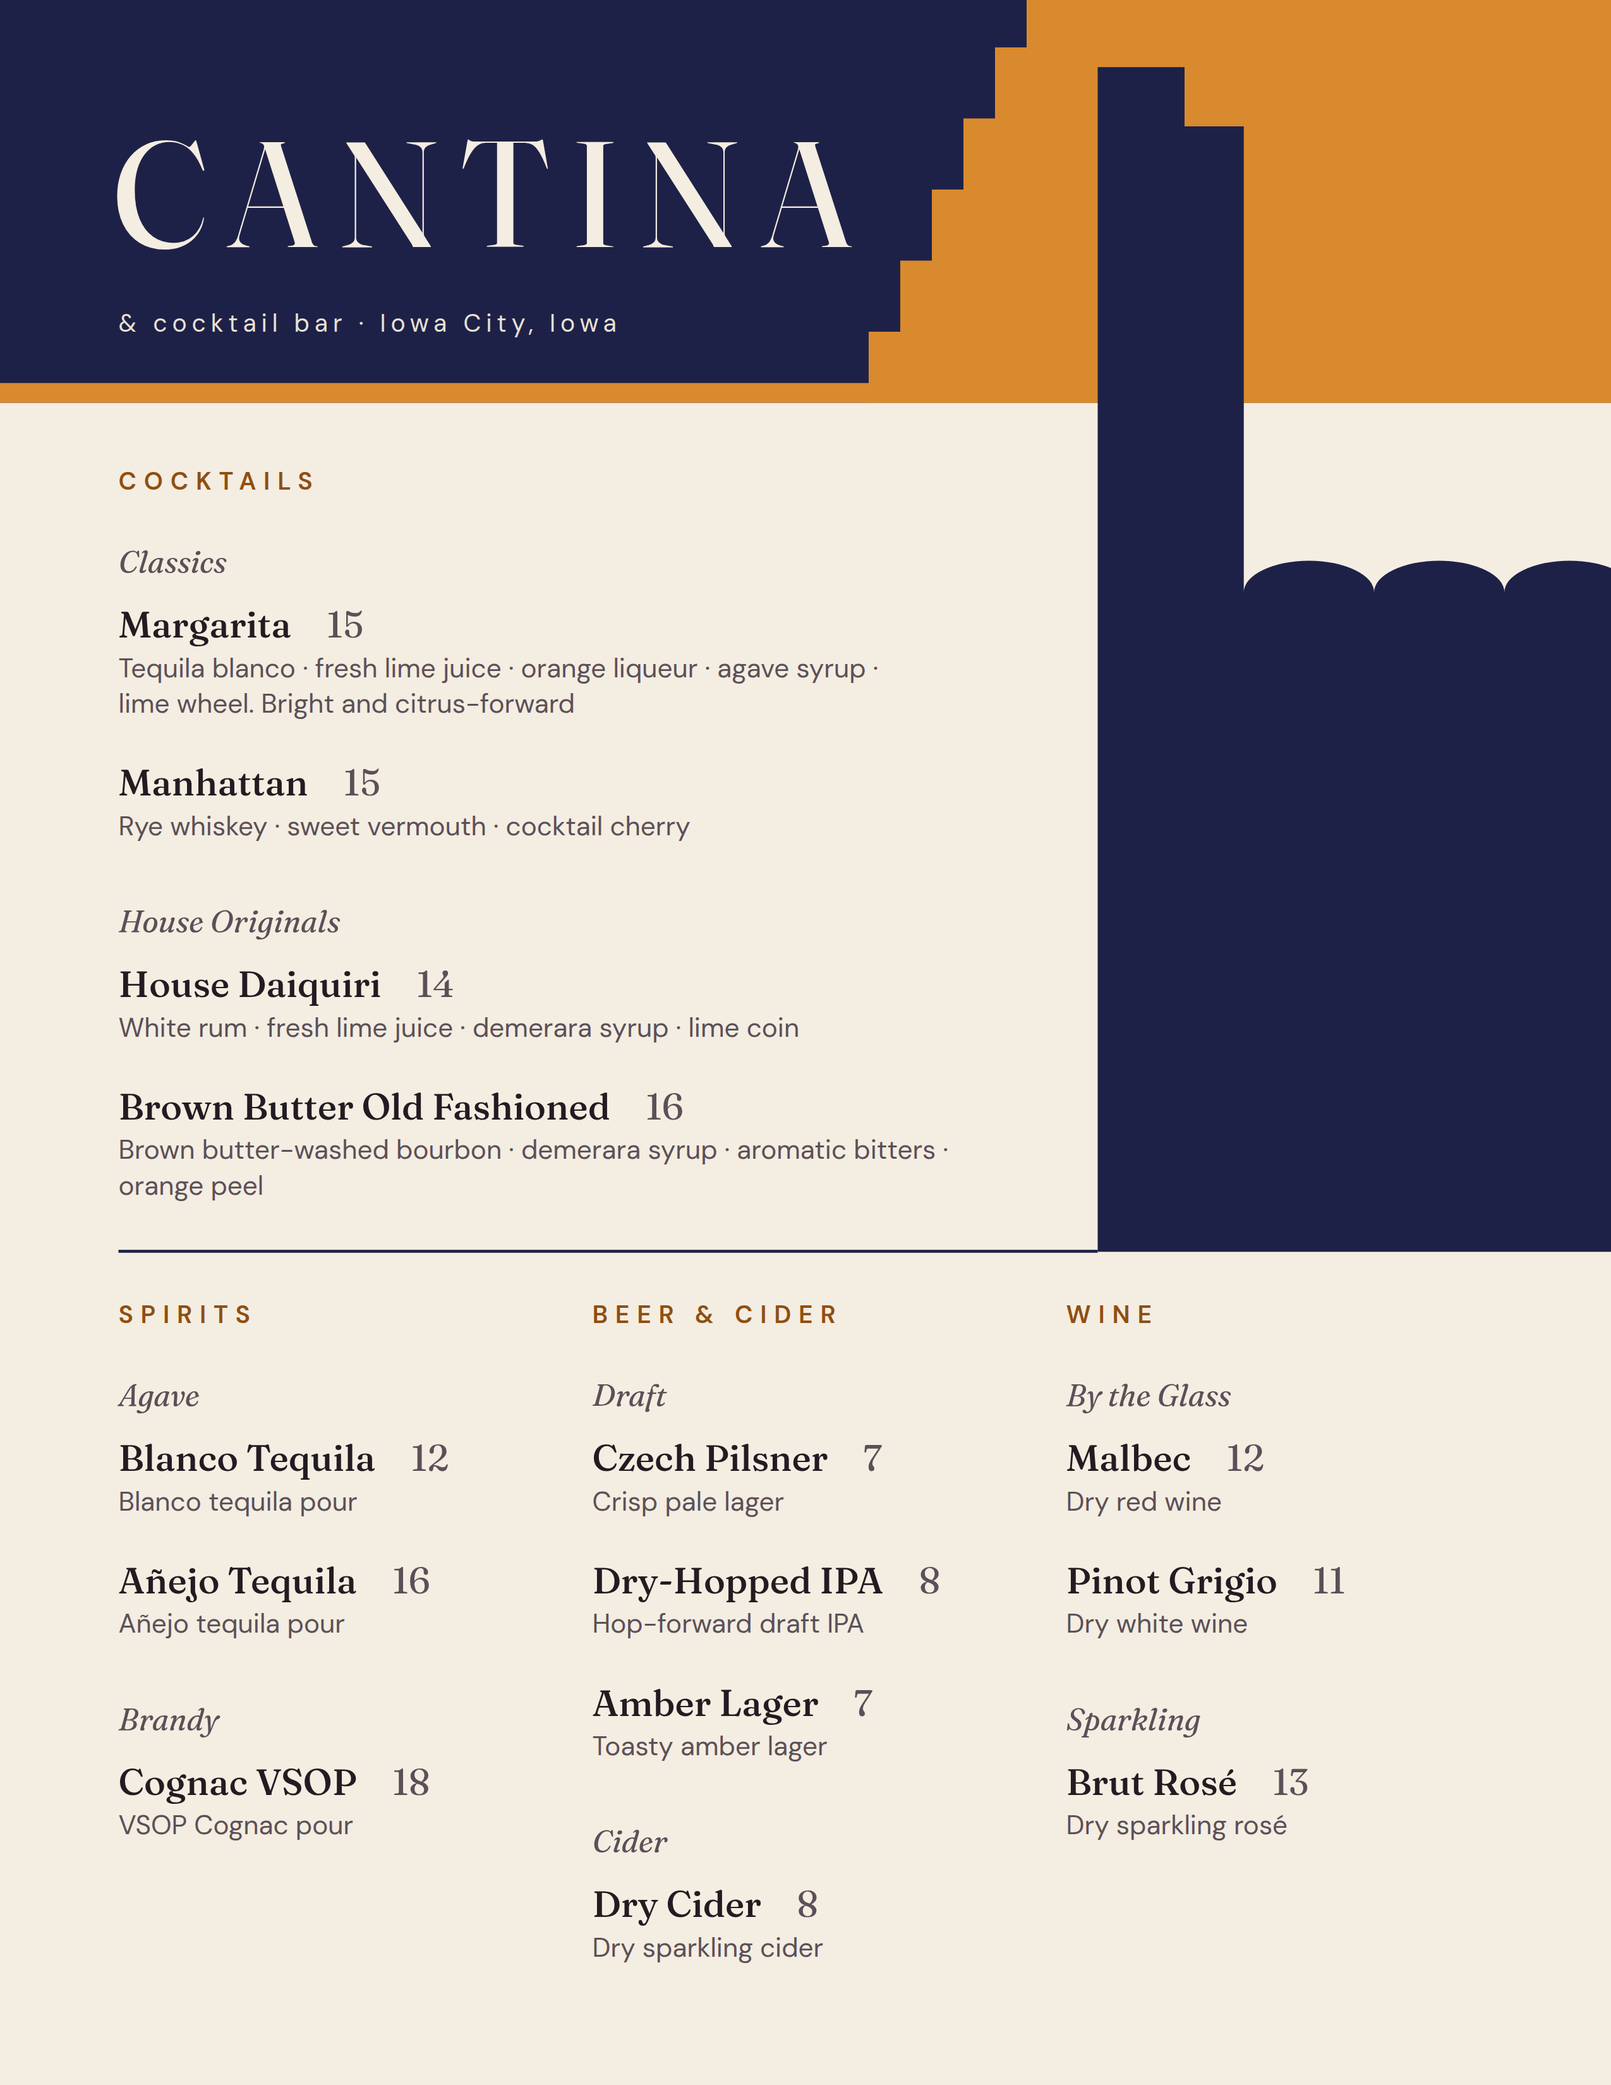
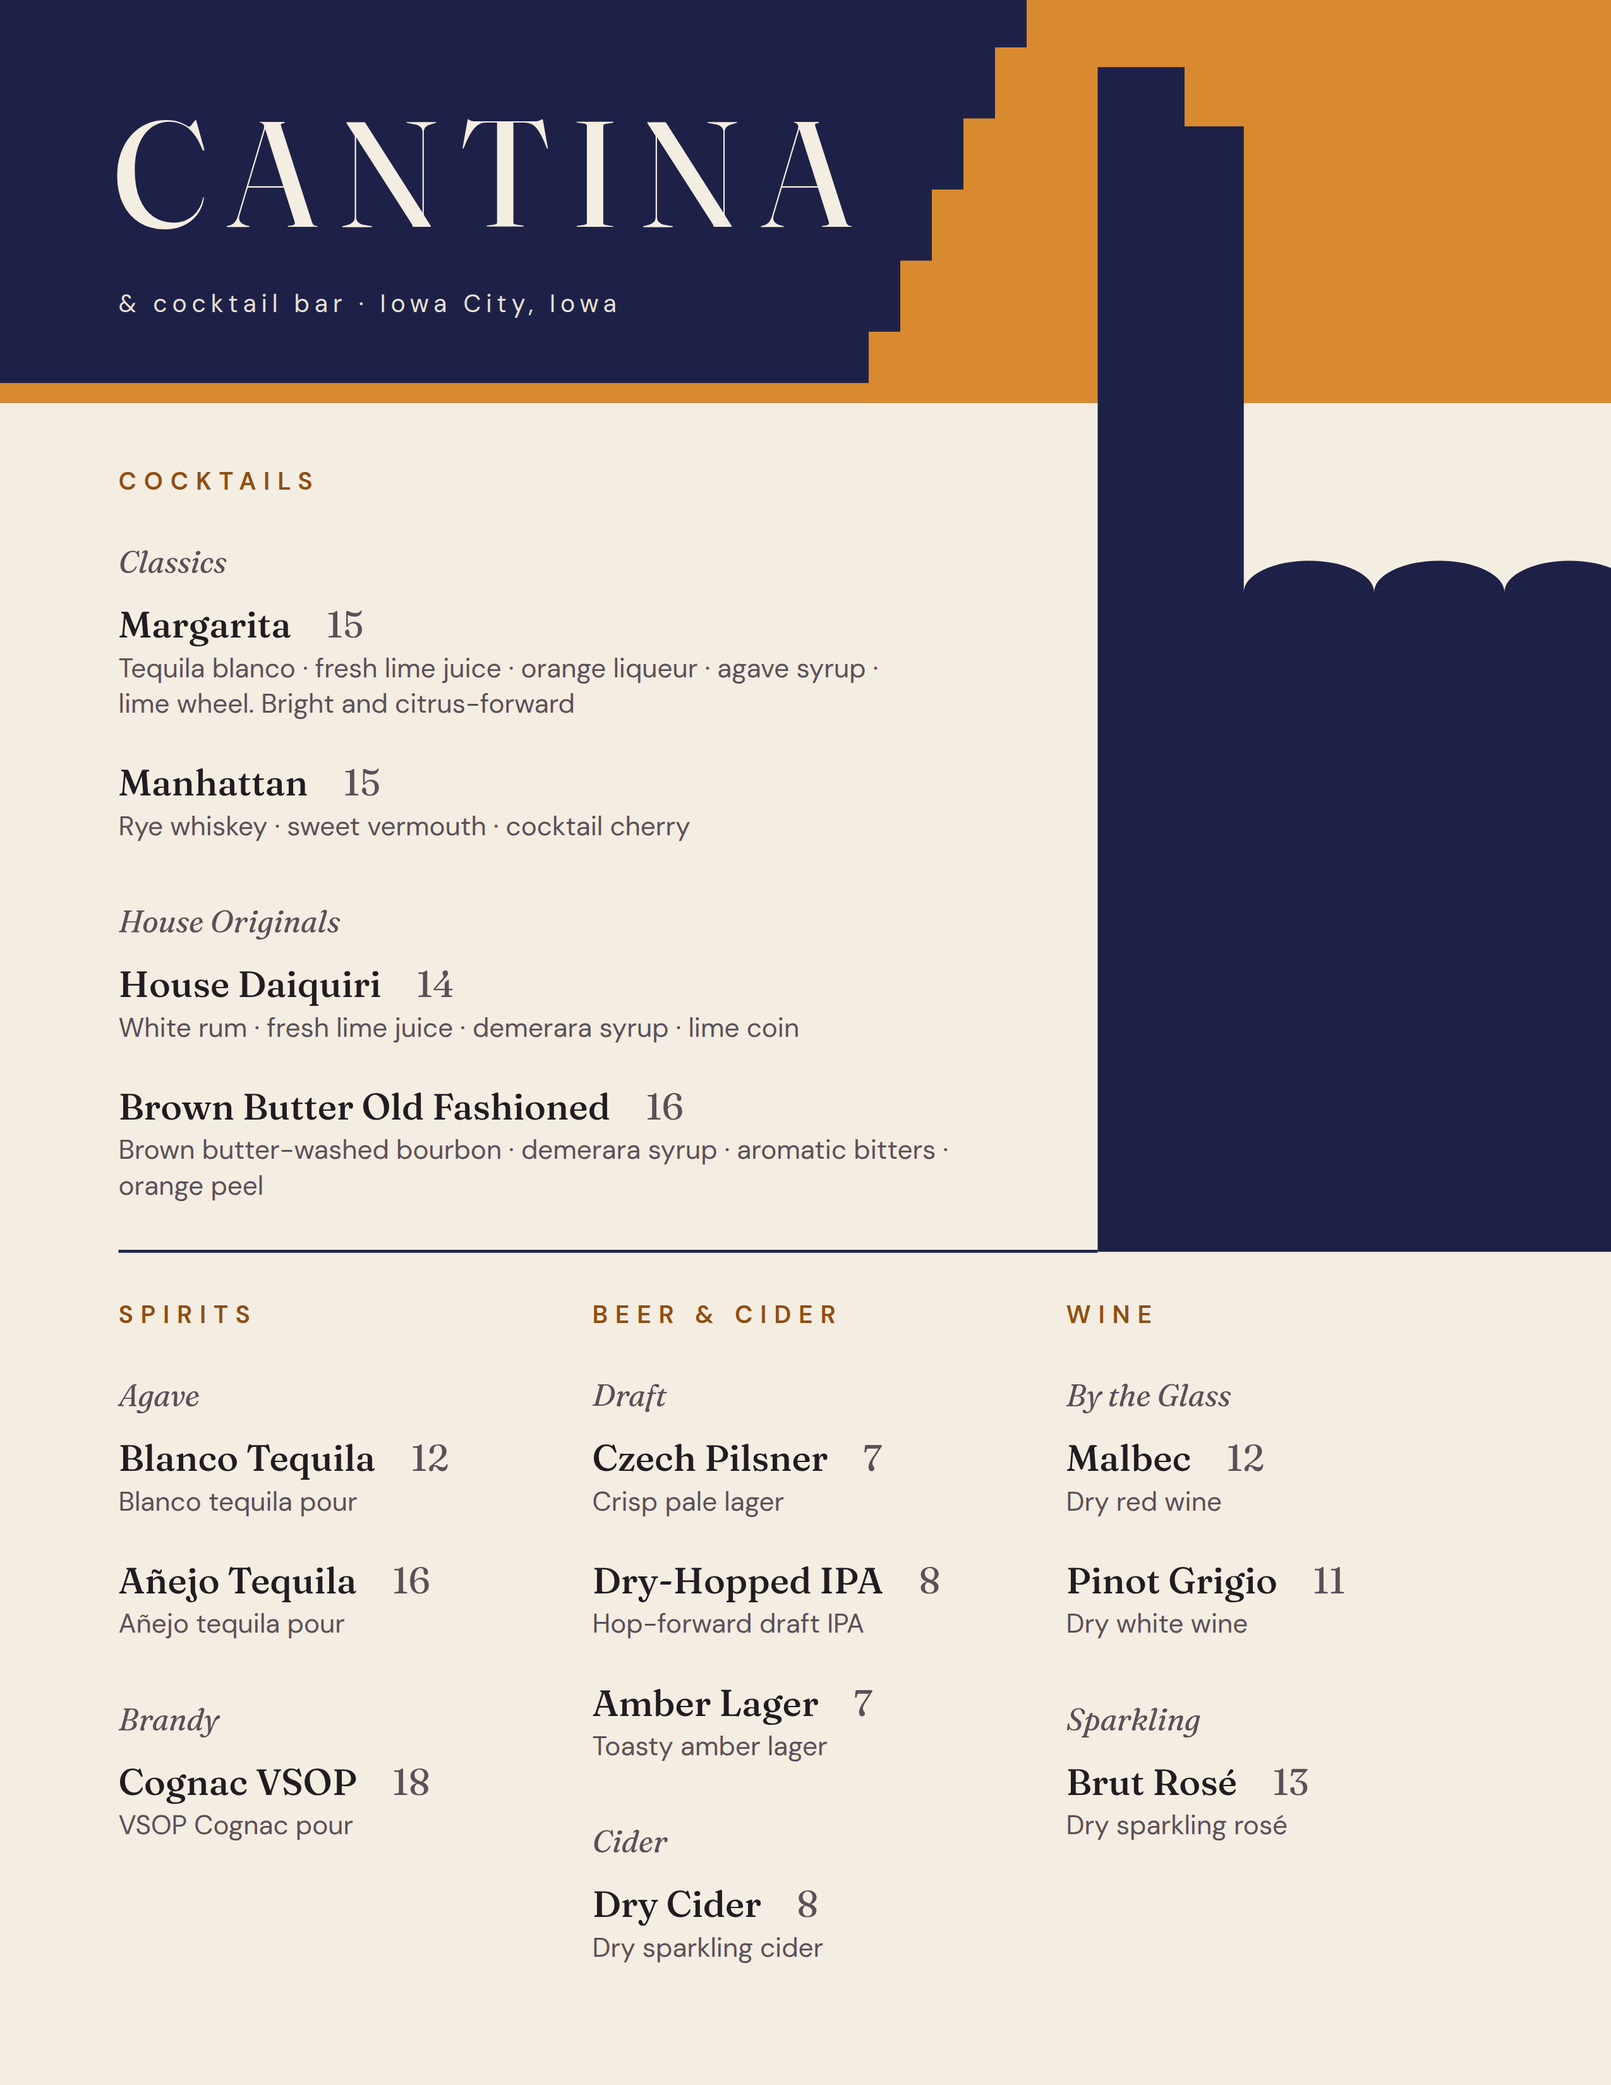
TEST-1: explore-J4 Horizon v4 (single elevator profile, escalonado glow)
Claude-Session: https://claude.ai/code/session_0119q5CFNNK1HNw6Gy8QYqx9

diff --git a/handoff/designs/test-1-iowa-city-cantina/explore-J4/menu.html b/handoff/designs/test-1-iowa-city-cantina/explore-J4/menu.html
@@ -20,7 +20,7 @@ h3{font:italic 400 var(--h3)/26px Fr;color:#5B5058;margin-bottom:6px}
 .ds{font:400 var(--ds)/18px Dm;color:#5B5058}
 .row{display:grid;grid-template-columns:repeat(3,1fr);column-gap:24px;align-items:start;margin-top:var(--tiergap)}
 body.letter .page{width:816px;height:1056px;
-  --m:60px;--mt:60px;--tw:696px;--rt:236px;--wm:76px;--wmfix:-3px;--subsz:12.5px;--subgap:22px;--h2:12.5px;--h3:15.5px;
+  --m:60px;--mt:50px;--tw:696px;--rt:236px;--wm:76px;--wmfix:-3px;--subsz:12.5px;--subgap:22px;--h2:12.5px;--h3:15.5px;
   --nm:18.5px;--ds:13.5px;--itgap:18px;--grpgap:26px;--tiergap:48px}
 body.letter .main{width:456px}
 body.letter .nm{white-space:nowrap}

diff --git a/handoff/designs/test-1-iowa-city-cantina/explore-J4/build.py b/handoff/designs/test-1-iowa-city-cantina/explore-J4/build.py
@@ -181,7 +181,7 @@ h3{{font:italic 400 var(--h3)/26px Fr;color:{MUTED};margin-bottom:6px}}
 .ds{{font:400 var(--ds)/18px Dm;color:{MUTED}}}
 .row{{display:grid;grid-template-columns:repeat(3,1fr);column-gap:24px;align-items:start;margin-top:var(--tiergap)}}
 body.letter .page{{width:816px;height:1056px;
-  --m:60px;--mt:60px;--tw:696px;--rt:{HZ_L + 32}px;--wm:76px;--wmfix:-3px;--subsz:12.5px;--subgap:22px;--h2:12.5px;--h3:15.5px;
+  --m:60px;--mt:50px;--tw:696px;--rt:{HZ_L + 32}px;--wm:76px;--wmfix:-3px;--subsz:12.5px;--subgap:22px;--h2:12.5px;--h3:15.5px;
   --nm:18.5px;--ds:13.5px;--itgap:18px;--grpgap:26px;--tiergap:{{TIERGAP}}px}}
 body.letter .main{{width:456px}}
 body.letter .nm{{white-space:nowrap}}

diff --git a/handoff/designs/test-1-iowa-city-cantina/explore-J4/proposal.md b/handoff/designs/test-1-iowa-city-cantina/explore-J4/proposal.md
@@ -1,0 +1,223 @@
+# TEST-1 explore-J4 "Horizon", round 4 (checkpoint: ../explore-J3)
+
+## Thesis
+**A navy prairie dusk, with the last light cut in Mexican escalonado steps. One Iowa grain elevator stands in that light
+and comes down to the ground line the menu is set on.**
+
+Concept words: horizon · dusk · elevator · escalonado · ground line · flat
+
+Avoid-list: sun/moon, agave, cacti, glasses; gradients; colonnade/seam rhythm or window dots on the building; church or barn
+gables; boxes, cards, rules, leaders, price ornaments; tracked caps over 3 words; taglines; a second display word;
+any ink beyond navy, amber and paper (dark amber is the same amber, darkened for text).
+
+The one gesture, in three flat inks:
+- **Sky:** navy.
+- **Glow:** amber, whose left edge descends in six escalonado steps from the top of the page to the horizon (y 204).
+- **Elevator:** one navy grain-elevator silhouette. A tall headhouse whose roofline steps up once for the leg housing.
+  From its left end runs a wide slip-form bin block, whose top is the row of three bin crowns. The elevator rises out
+  of the glow, crosses the horizon and comes down beside Cocktails to the ground line G (y 634). The lower tier hangs
+  from G.
+
+Substitution test: Mexico is in the stepped light, and Iowa City is in the grain elevator standing in it. The same
+stepped form also shapes the elevator's own roofline, so the fusion is in the form rather than in a caption.
+
+## Round-3 critique → J4 fixes
+| # | Fix | Done |
+|---|---|---|
+| 1 | One unmistakable elevator | Redrawn as a single profile. The headhouse is 74 x 570 css px, with a 44 x 30 leg-housing step on its roofline, and rises 236 px above the bin block. The bin block is 186 px wide to the right trim, plus bleed, and 334 px tall, with 3 bin crowns (the only curves; no seams, no window dots). Ablation showed the crowns are what make it read: without them it is an L-shaped slab. Phone: the same profile at 0.5 scale reads as a building, 36 + 84 px wide. |
+| 2 | Underprint removed | Gone. |
+| 3 | Word and image integrated | The horizon (y 204) is the top structural edge: Cocktails hangs one rhythm unit (32 px) below it at x 60, and the glow's lowest step lands on the same line. The elevator's base, the ground line G = 634, is the second edge. The last cocktail line ends 24 px above G (y 610) and the lower-tier H2s start 24 px below it (y 658). Both edges run the full width. |
+| 4 | Dead band removed | Cocktails sits on columns 1-2 (x 60-516) of the same three-column grid. Column 3 beside it is the elevator. The Cocktails → lower-tier gap is 48 px, split 24/24 around G, which equals the grid's 24 px unit and matches the sub-group rhythm (26 px). |
+| 5 | Lower-tier rows | Beer & Cider carries the H3s Draft and Cider (Cider demoted from H2). Agave, Draft and By the Glass share y 694, and the first items share y 726. Brandy and Sparkling sit directly under their parents (y 858, no auto margins). Column bottoms are 934 / 996 / 934, the natural lengths (Beer & Cider has one more item). |
+| 6 | Prices by value | Prices are Fraunces 400 in muted `#5B5058` (6.6:1); names are Fraunces 500 in ink `#221C22` (14.4:1). They differ in weight and value, a 0.75 em gap apart. |
+| 7 | Palette | Navy `#1E2147`, amber `#D98A2E` (with its text-safe dark form `#8F4F10` for the six heads, 5.48:1), paper, plus ink and muted for text. Plum is gone. |
+| 8 | Content | Unchanged from J3. The Margarita keeps "… lime wheel. Bright and citrus-forward" inline, with the sentence kept together, and appears the same way on letter and phone. |
+
+Heading note: the brief suggested "Draft Beer" (H2) with H3 "Draft", which would read "Draft Beer / Draft". I set the
+H2 as **"Beer & Cider"** (3 words, tracked caps allowed) with the draft's own sub heads "Draft" and "Cider". Every
+item stays in its draft group, and the column name is honest about holding the cider. If the Coordinator prefers the
+literal wording, it is a one-word change in `beer_cider_html()`.
+
+## Content (unchanged; ../build/draft_doc.json + garnish from phg.recipe_versions, cited in ../round-17/proposal.md)
+| Group | Item | Price | Description |
+|---|---|---|---|
+| Cocktails / Classics | Margarita | 15 | Tequila blanco · fresh lime juice · orange liqueur · agave syrup · lime wheel. Bright and citrus-forward |
+| Cocktails / Classics | Manhattan | 15 | Rye whiskey · sweet vermouth · cocktail cherry |
+| Cocktails / House Originals | House Daiquiri | 14 | White rum · fresh lime juice · demerara syrup · lime coin |
+| Cocktails / House Originals | Brown Butter Old Fashioned | 16 | Brown butter-washed bourbon · demerara syrup · aromatic bitters · orange peel |
+| Spirits / Agave | Blanco Tequila | 12 | Blanco tequila pour |
+| Spirits / Agave | Añejo Tequila | 16 | Añejo tequila pour |
+| Spirits / Brandy | Cognac VSOP | 18 | VSOP Cognac pour |
+| Beer & Cider / Draft | Czech Pilsner | 7 | Crisp pale lager |
+| Beer & Cider / Draft | Dry-Hopped IPA | 8 | Hop-forward draft IPA |
+| Beer & Cider / Draft | Amber Lager | 7 | Toasty amber lager |
+| Beer & Cider / Cider | Dry Cider | 8 | Dry sparkling cider |
+| Wine / By the Glass | Malbec | 12 | Dry red wine |
+| Wine / By the Glass | Pinot Grigio | 11 | Dry white wine |
+| Wine / Sparkling | Brut Rosé | 13 | Dry sparkling rosé |
+Still waiting on Rob: producer, region and ABV for wine, beer and cider; brand and pour size for spirits.
+
+## Layout geometry (letter 816 x 1056 css px = 2550 x 3300 px at 300 dpi; 1 css px = 0.265 mm)
+- **Grid:** margins 60 on the left, top and bottom. Wordmark ink top is 60.2, the Beer & Cider column ends at 996, and names/heads start at x 60. The frame is x 60-756 with three 216-px columns at x 60 / 300 / 540 and 24-px gutters. Measured margins agree within 0.5 px (0.13 mm).
+- **ART (inline SVG, text-free, bleeds 12 px past the top, left and right trim):**
+  - Navy sky: y 0-204.
+  - Amber glow: left edge in 6 steps, from x 520 at the top to x 440 at the horizon (16-px run per step).
+  - Elevator (navy): headhouse x 556-630, roof y 64, leg step x 556-600 to y 34. Bin block x 630 → bleed, bin crowns at y 300 (3 arcs, 16 deep). Base G = 634.
+- **Wordmark:** CANTINA in Fraunces 430, 76 px (57 pt), tracking 0.14em, paper colour. Ink box 59.2-431.7 x 60.2-116.2.
+- **Sub-line:** DM Sans 12.5 px (9.4 pt), tracking 0.2em. Ink starts at x 60.5, y 148.8.
+- **Cocktails:** x 60-516, y 236-610. Column 3 alongside it holds the elevator, with 40 px between the text measure and the headhouse.
+- **Lower tier:** y 658 onward. H2s at 658, H3s at 694, first items at 726, Brandy and Sparkling at 858, Cider at 920. Bottoms 934 / 996 / 934.
+- **Type:**
+  - Section heads: DM Sans 600, 12.5 px, tracking 0.3em, caps, `#8F4F10`.
+  - Sub heads: Fraunces italic 15.5 px (11.6 pt), muted.
+  - Names: Fraunces 500, 18.5 px (13.9 pt), ink.
+  - Prices: Fraunces 400, 18.5 px, muted, tabular figures.
+  - Descriptions: DM Sans 13.5 px (10.1 pt), muted.
+  - Line heights 16 / 18 / 26.
+- **Phone (390 css → 1170 x 5220 px):**
+  - Field 0-250, with the same glow and elevator at about 0.5 scale on the right (headhouse x 284-320, bins 320 → bleed).
+  - Text frame x 24-366, stacked in the order Cocktails, Spirits, Beer & Cider, Wine.
+- Per-element boxes and measured ink boxes: geometry.json. Per-run contrast: contrast.json.
+
+## Device inventory and subtraction log
+Revision hypothesis: J3 lost points because its elevator did not read as an elevator (a colonnade), not because it
+had too few devices. Rebuild the art as one legible profile with fewer parts, tie it to the type by two full-width edges
+(horizon and ground line), and subtract everything that was only ornament.
+
+| # | Device (J4 before) | After | Evidence |
+|---|---|---|---|
+| 1 | Navy sky | kept | ground for the wordmark |
+| 2 | Escalonado amber glow | kept | the Mexican half, and the value backing for the elevator's roofline |
+| 3 | Thin full-width amber horizon band | **removed** | it restored the "banner" seam; the glow's lowest step already marks the horizon |
+| 4 | Headhouse | kept | primary elevator cue |
+| 5 | Headhouse leg-housing step | kept | ablation: without it the headhouse reads as a chimney or tower |
+| 6 | Bin crowns on the bin block | kept | ablation: without them the building reads as an abstract L-slab |
+| 7 | Navy ground rule under Cocktails (continuing G to x 60) | **removed** | it read as a table rule; the elevator base and the H2 row already carry the line |
+| 8 | Wordmark | kept | the one display word |
+| 9 | Sub-line | kept | venue and city |
+| 10 | Dark-amber section heads | kept | the single accent role in text |
+| 11 | Italic sub heads | kept | the draft's groups |
+| 12 | Middot ingredient separators | kept | editorial format |
+
+Removed 2 of 12 (17%), below the 25% target. The two further candidates, the leg step and the bin crowns, were ablated
+and rendered. Both made the image worse, so they are kept: this is the "keep only those whose removal hurts" rule, and
+the gap is recorded rather than filled with a cosmetic cut. Retired since J3: the plum ink, the misregistration
+underprint, the gallery windows and the bin seams. Relative to J3's device set, 4 of 16 are gone.
+
+## visual_tests: before / after
+- **Accent share outside the art** (reading-area crop): **0.14% before → 0.14% after**. This is the dark-amber heads only; prices are no longer an accent. J3 was 0.17%.
+- **Whole page** (the art is the colour field): 29.49% → 29.49%. J3 was 35.53%.
+- **Squint test:** one dominant region, 30.98% → 31.32% of the page (the sky, glow and elevator as one mass), with no competing region.
+- **Visual centroid:** (0.585, 0.277) → (0.582, 0.274).
+- **Silhouette correlation:** J4 vs J3 is 0.638, a structural change. Before vs after is 0.999.
+- The reading-area crop reports 24 small salient specks at 0.15% (the text lines at crop scale). There is no large competing region.
+
+```json
+[
+ {
+  "file": "J4 after (preview-letter.png)",
+  "squint_salient_regions": 1,
+  "primary_area_pct": 31.32,
+  "primary_to_secondary": null,
+  "ground_luminance": 0.901,
+  "value_range_p5_p95": [
+   0.138,
+   0.932
+  ],
+  "accent_area_pct": 29.49,
+  "visual_centroid": [
+   0.582,
+   0.274
+  ]
+ },
+ {
+  "file": "J4 before (before/preview-letter.png)",
+  "squint_salient_regions": 1,
+  "primary_area_pct": 30.98,
+  "primary_to_secondary": null,
+  "ground_luminance": 0.897,
+  "value_range_p5_p95": [
+   0.138,
+   0.932
+  ],
+  "accent_area_pct": 29.49,
+  "visual_centroid": [
+   0.585,
+   0.277
+  ]
+ },
+ {
+  "file": "J3 checkpoint",
+  "squint_salient_regions": 1,
+  "primary_area_pct": 38.93,
+  "primary_to_secondary": null,
+  "ground_luminance": 0.876,
+  "value_range_p5_p95": [
+   0.138,
+   0.932
+  ],
+  "accent_area_pct": 35.53,
+  "visual_centroid": [
+   0.612,
+   0.342
+  ]
+ },
+ {
+  "file": "J4 after: reading-area crop (below horizon, x<540 css)",
+  "squint_salient_regions": 24,
+  "primary_area_pct": 0.15,
+  "primary_to_secondary": 1.13,
+  "ground_luminance": 0.932,
+  "value_range_p5_p95": [
+   0.761,
+   0.932
+  ],
+  "accent_area_pct": 0.14,
+  "visual_centroid": [
+   0.402,
+   0.506
+  ]
+ },
+ {
+  "file": "J4 before: reading-area crop",
+  "squint_salient_regions": 24,
+  "primary_area_pct": 0.15,
+  "primary_to_secondary": 1.13,
+  "ground_luminance": 0.932,
+  "value_range_p5_p95": [
+   0.737,
+   0.932
+  ],
+  "accent_area_pct": 0.14,
+  "visual_centroid": [
+   0.41,
+   0.506
+  ]
+ }
+]
+```
+
+## Contrast and legibility (contrast.json, worst pixel)
+Letter:
+- Section heads: 5.48:1.
+- Sub heads, descriptions and prices: 6.6:1.
+- Names: 14.4:1.
+- Sub-line: 11.9:1. Wordmark: 13.2:1.
+
+Sizes: names and prices 13.9 pt, descriptions 10.1 pt. Phone: same ratios; names 13.1 pt; sub-line 7.9 pt.
+
+## References
+- ref-02-3acf255d.png: panel 2 (flat stepped form plus a single object as the only art) and panels 1 and 5 (art occupying a side column beside the list, text in the safe inset).
+- ref-03-ffe03c52.png: panels 2 and 5 (posterised dusk, cut shapes, no line work).
+
+No new menu_visual_documents queries were made this round. The Coordinator should attach the round-17 comparables.
+
+## Files
+- build.py: run `python3 build.py [before|after]`. `J4_ABL=setback,bin_arcs,...` renders ablations.
+- menu.html
+- preview-letter.png (2550x3300)
+- preview-phone.png (1170x5220)
+- before/
+- visual_tests.json
+- contrast.json
+- geometry.json
